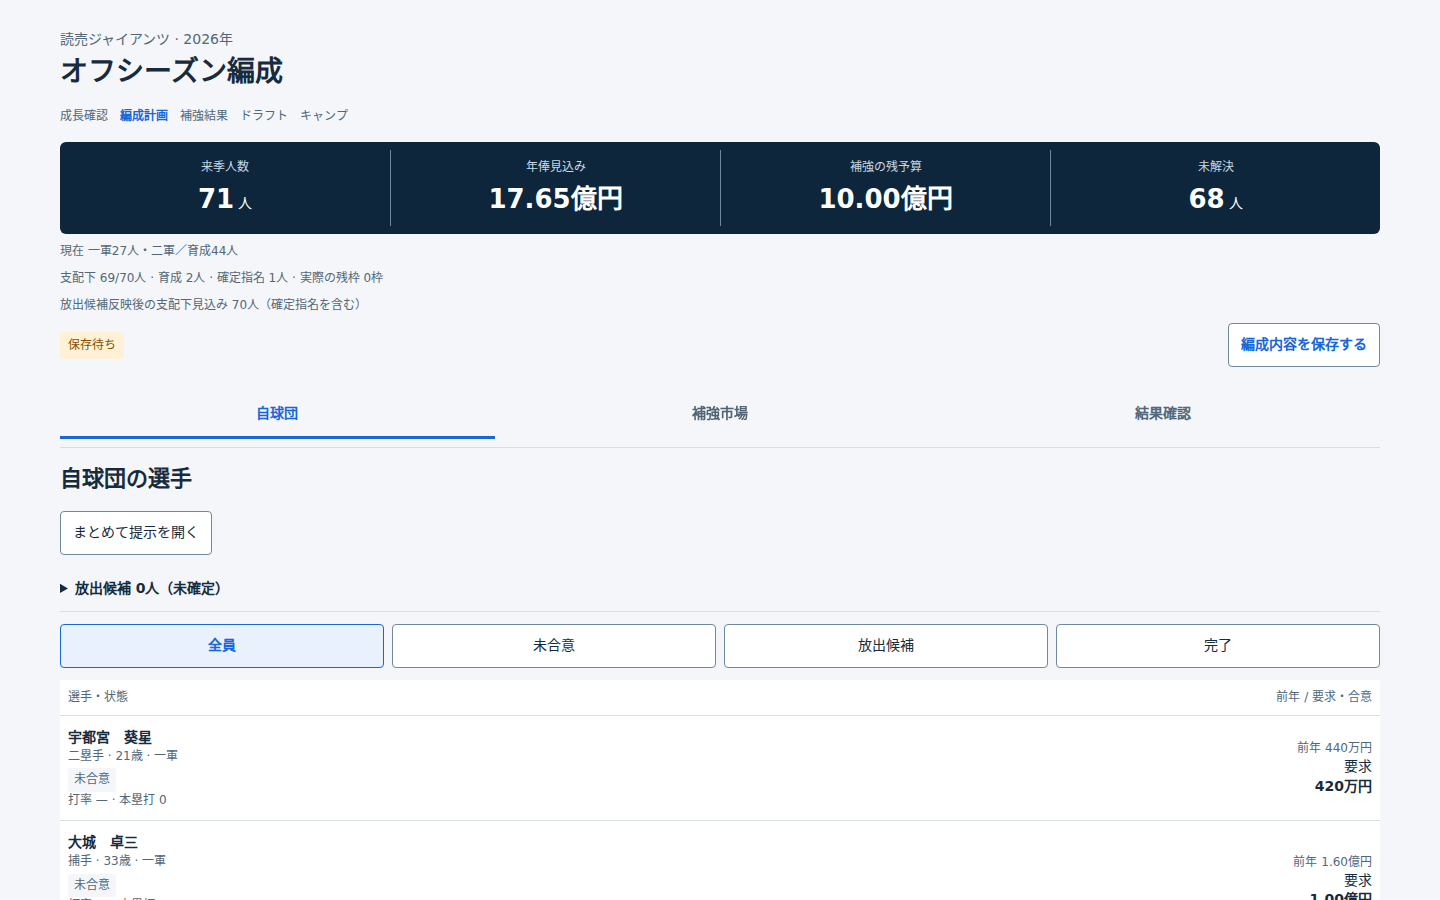
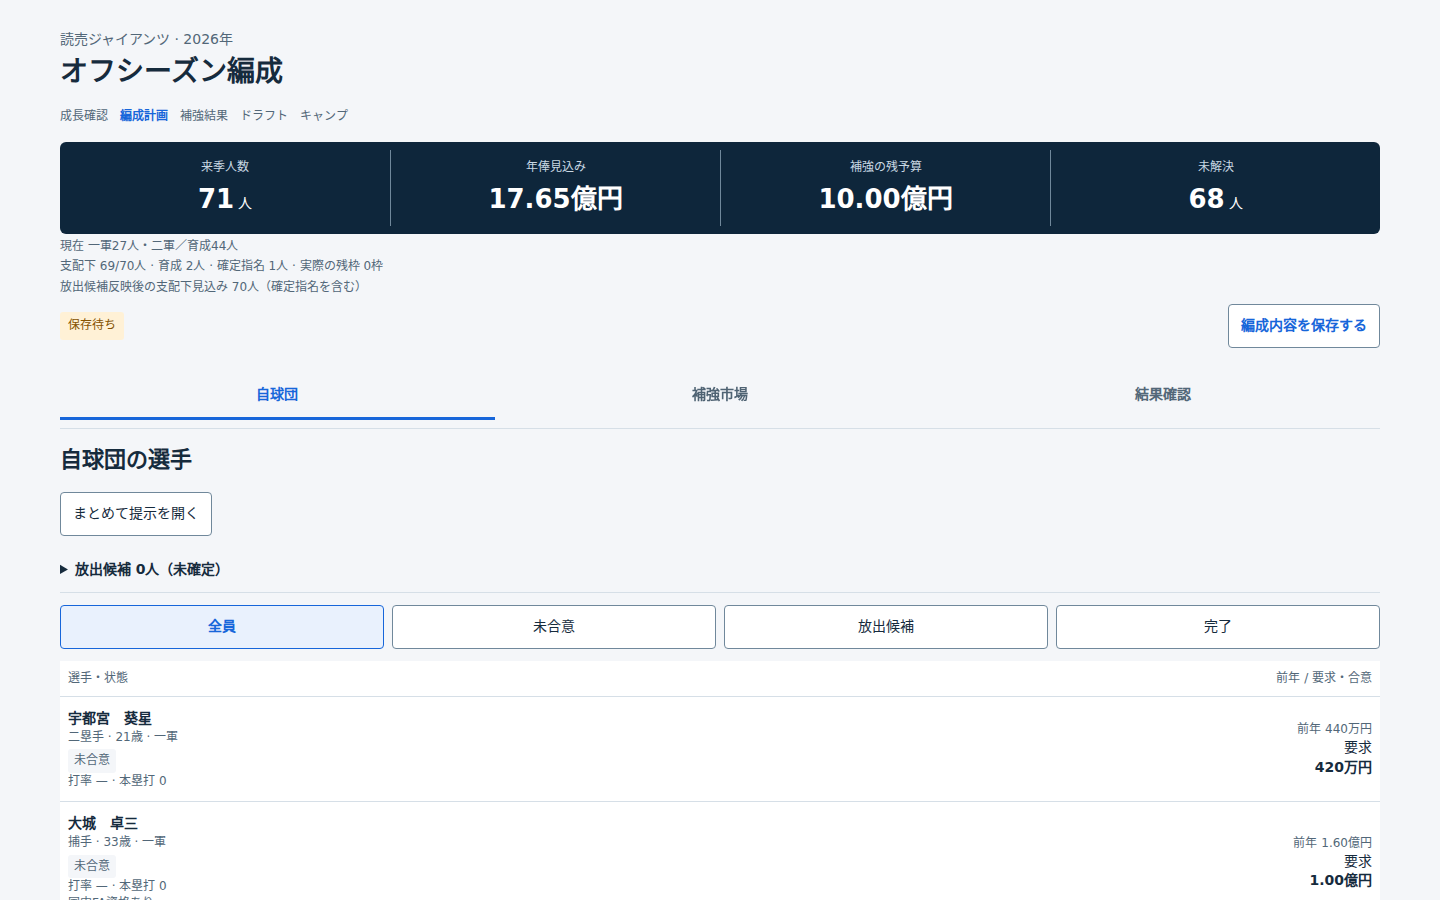
fix: retain the planning first row on narrow screens
Keep the existing 800px visibility gate and 44px controls with compact overview
spacing. Preserve all seven new browser cases while balancing their existing
core-CI spec registrations. Record the CI regression and refreshed screenshots.

diff --git a/e2e/helpers/rosterCapacity.js b/e2e/helpers/rosterCapacity.js
@@ -1,3 +1,5 @@
+import { test, expect } from '@playwright/test';
+import { readSave, reloadAndLoad, waitSaveIdle } from './progression.js';
 import { readFileSync } from 'node:fs';
 import { gunzipSync } from 'node:zlib';
 export function capacityFixture({controlled=69,reserved=false,screen='offseason_planning'}={}) {
@@ -18,4 +20,32 @@ export async function installCapacityFixture(page,options={}) {
  const s=capacityFixture(options);await page.goto('/');
  await page.evaluate(async state=>{const {saveGame}=await import('/baseball-manager/src/engine/saveload.js');if(!(await saveGame(state)).ok)throw Error('capacity save failed');},s);
  await page.reload();await page.getByRole('button',{name:'続きから',exact:true}).click();return s;
+}
+
+export function registerCapacityPlanningCases(widths) {
+for(const width of widths)test(`roster capacity planned release cannot spend a reserved draft slot ${width}`,async({page})=>{
+ test.setTimeout(90000);await page.setViewportSize({width,height:900});
+ await installCapacityFixture(page,{reserved:true});const overview=page.locator('.planning-overview');
+ await expect(overview).toContainText('支配下 69/70人 · 育成 2人 · 確定指名 1人 · 実際の残枠 0枠');
+ await page.getByRole('button',{name:'枠確認0の契約更改',exact:true}).click();await page.getByRole('button',{name:'放出候補にする',exact:true}).click();
+ await expect(overview).toContainText('放出候補反映後の支配下見込み 69人');await expect(overview).toContainText('実際の残枠 0枠');
+ await page.getByRole('button',{name:'放出候補を取り消して交渉する',exact:true}).click();await expect(overview).toContainText('放出候補反映後の支配下見込み 70人');
+ await page.getByRole('button',{name:'補強市場',exact:true}).click();await page.getByRole('button',{name:'枠確認FAの条件を見る',exact:true}).click();
+ await expect(page.getByRole('button',{name:'契約条件を確認する',exact:true})).toBeDisabled();await expect(page.locator('.fa-detail')).toContainText('支配下登録枠（70人）が満員です');
+ expect(await page.evaluate(()=>document.documentElement.scrollWidth<=innerWidth)).toBe(true);
+ await page.getByRole('button',{name:'編成内容を保存する',exact:true}).click();await waitSaveIdle(page);const saved=await readSave(page);
+ await reloadAndLoad(page);await expect(page.locator('.planning-overview')).toContainText('確定指名 1人 · 実際の残枠 0枠');
+ const restored=await readSave(page);expect(restored.teams).toEqual(saved.teams);expect(restored.offseasonPlan.draftPool).toEqual(saved.offseasonPlan.draftPool);expect(restored.offseasonPlan.draftViews).toEqual(saved.offseasonPlan.draftViews);
+ await page.evaluate(async()=>{
+  const {loadGame,saveGame}=await import('/baseball-manager/src/engine/saveload.js');const s=await loadGame();
+  s.offseasonPlan.draftResult={pool:s.offseasonPlan.draftPool,drafted:{'capacity-pick':'refused'}};
+  if(!(await saveGame(s)).ok)throw Error('refusal fixture save failed');
+ });
+ await reloadAndLoad(page);await page.getByRole('button',{name:'補強市場',exact:true}).click();await expect(page.locator('.fa-detail')).toContainText('枠確認FA');
+ await page.getByRole('button',{name:'契約条件を確認する',exact:true}).click();await page.getByRole('dialog').getByRole('button',{name:'契約を確定する',exact:true}).click();
+ await expect(page.locator('.planning-overview')).toContainText('支配下 70/70人 · 育成 2人 · 確定指名 0人 · 実際の残枠 0枠');
+ await page.getByRole('button',{name:'編成内容を保存する',exact:true}).click();await waitSaveIdle(page);const signed=await readSave(page),signedClub=signed.teams.find(t=>t.id===signed.myId);
+ expect(signedClub.budget).toBe(99500);expect([...signedClub.players,...signedClub.farm].filter(p=>p.id==='capacity-fa')).toHaveLength(1);
+ await reloadAndLoad(page);await expect(page.locator('.planning-overview')).toContainText('支配下 70/70人');expect((await readSave(page)).teams).toEqual(signed.teams);
+});
 }

diff --git a/e2e/draft.spec.js b/e2e/draft.spec.js
@@ -196,29 +196,5 @@ test('role-specific CPU picks fill SP then relief across actual save/load and ne
  expect(reopened.teams).toEqual(third.teams);
 });
 
-for(const width of [360,390,1440])test(`roster capacity planned release cannot spend a reserved draft slot ${width}`,async({page})=>{
- test.setTimeout(90000);await page.setViewportSize({width,height:900});
- const {installCapacityFixture}=await import('./helpers/rosterCapacity');
- await installCapacityFixture(page,{reserved:true});const overview=page.locator('.planning-overview');
- await expect(overview).toContainText('支配下 69/70人 · 育成 2人 · 確定指名 1人 · 実際の残枠 0枠');
- await page.getByRole('button',{name:'枠確認0の契約更改',exact:true}).click();await page.getByRole('button',{name:'放出候補にする',exact:true}).click();
- await expect(overview).toContainText('放出候補反映後の支配下見込み 69人');await expect(overview).toContainText('実際の残枠 0枠');
- await page.getByRole('button',{name:'放出候補を取り消して交渉する',exact:true}).click();await expect(overview).toContainText('放出候補反映後の支配下見込み 70人');
- await page.getByRole('button',{name:'補強市場',exact:true}).click();await page.getByRole('button',{name:'枠確認FAの条件を見る',exact:true}).click();
- await expect(page.getByRole('button',{name:'契約条件を確認する',exact:true})).toBeDisabled();await expect(page.locator('.fa-detail')).toContainText('支配下登録枠（70人）が満員です');
- expect(await page.evaluate(()=>document.documentElement.scrollWidth<=innerWidth)).toBe(true);
- await page.getByRole('button',{name:'編成内容を保存する',exact:true}).click();await waitSaveIdle(page);const saved=await readSave(page);
- await reloadAndLoad(page);await expect(page.locator('.planning-overview')).toContainText('確定指名 1人 · 実際の残枠 0枠');
- const restored=await readSave(page);expect(restored.teams).toEqual(saved.teams);expect(restored.offseasonPlan.draftPool).toEqual(saved.offseasonPlan.draftPool);expect(restored.offseasonPlan.draftViews).toEqual(saved.offseasonPlan.draftViews);
- await page.evaluate(async()=>{
-  const {loadGame,saveGame}=await import('/baseball-manager/src/engine/saveload.js');const s=await loadGame();
-  s.offseasonPlan.draftResult={pool:s.offseasonPlan.draftPool,drafted:{'capacity-pick':'refused'}};
-  if(!(await saveGame(s)).ok)throw Error('refusal fixture save failed');
- });
- await reloadAndLoad(page);await page.getByRole('button',{name:'補強市場',exact:true}).click();await expect(page.locator('.fa-detail')).toContainText('枠確認FA');
- await page.getByRole('button',{name:'契約条件を確認する',exact:true}).click();await page.getByRole('dialog').getByRole('button',{name:'契約を確定する',exact:true}).click();
- await expect(page.locator('.planning-overview')).toContainText('支配下 70/70人 · 育成 2人 · 確定指名 0人 · 実際の残枠 0枠');
- await page.getByRole('button',{name:'編成内容を保存する',exact:true}).click();await waitSaveIdle(page);const signed=await readSave(page),signedClub=signed.teams.find(t=>t.id===signed.myId);
- expect(signedClub.budget).toBe(99500);expect([...signedClub.players,...signedClub.farm].filter(p=>p.id==='capacity-fa')).toHaveLength(1);
- await reloadAndLoad(page);await expect(page.locator('.planning-overview')).toContainText('支配下 70/70人');expect((await readSave(page)).teams).toEqual(signed.teams);
-});
+import { registerCapacityPlanningCases } from './helpers/rosterCapacity';
+registerCapacityPlanningCases([360]);

diff --git a/src/components/offseason-planning.css b/src/components/offseason-planning.css
@@ -11,6 +11,8 @@
 .planning-screen[data-ds] .planning-support>details>summary { min-height:44px; padding:8px 0; font-size:14px; font-weight:700; cursor:pointer; }
 .planning-screen[data-ds] :is(.planning-support>details>summary,.planning-heading h1):focus-visible { outline:3px solid var(--ds-focus); outline-offset:3px; }
 .planning-screen[data-ds] .planning-note { color:var(--ds-muted); font-size:12px; margin:8px 0; }
+/* Keep the first roster row visible with the added actual/projected counts. */
+.planning-screen[data-ds] .planning-overview .planning-note { margin:4px 0; line-height:1.4; }
 .planning-screen[data-ds] .planning-save { display:flex; flex-wrap:wrap; align-items:center; gap:8px; margin-top:8px; }
 .planning-screen[data-ds] .planning-save button { margin-left:auto; padding:8px 12px; font-size:14px; }
 .planning-screen[data-ds] .planning-tabs { position:sticky; top:0; z-index:5; background:var(--ds-canvas); padding:8px 0; border-bottom:1px solid var(--ds-divider); }

diff --git a/e2e/farm-development.spec.js b/e2e/farm-development.spec.js
@@ -121,3 +121,6 @@ for(const width of [360,390,1440])test(`roster capacity conversion respects both
  expect(t.history).toEqual(original.history);expect(t.players.map(p=>p.id)).toEqual(original.players.map(p=>p.id));
  await reloadAndLoad(page);expect((await saveHub(page)).teams).toEqual(saved.teams);
 });
+
+import { registerCapacityPlanningCases } from './helpers/rosterCapacity';
+registerCapacityPlanningCases([390,1440]);
